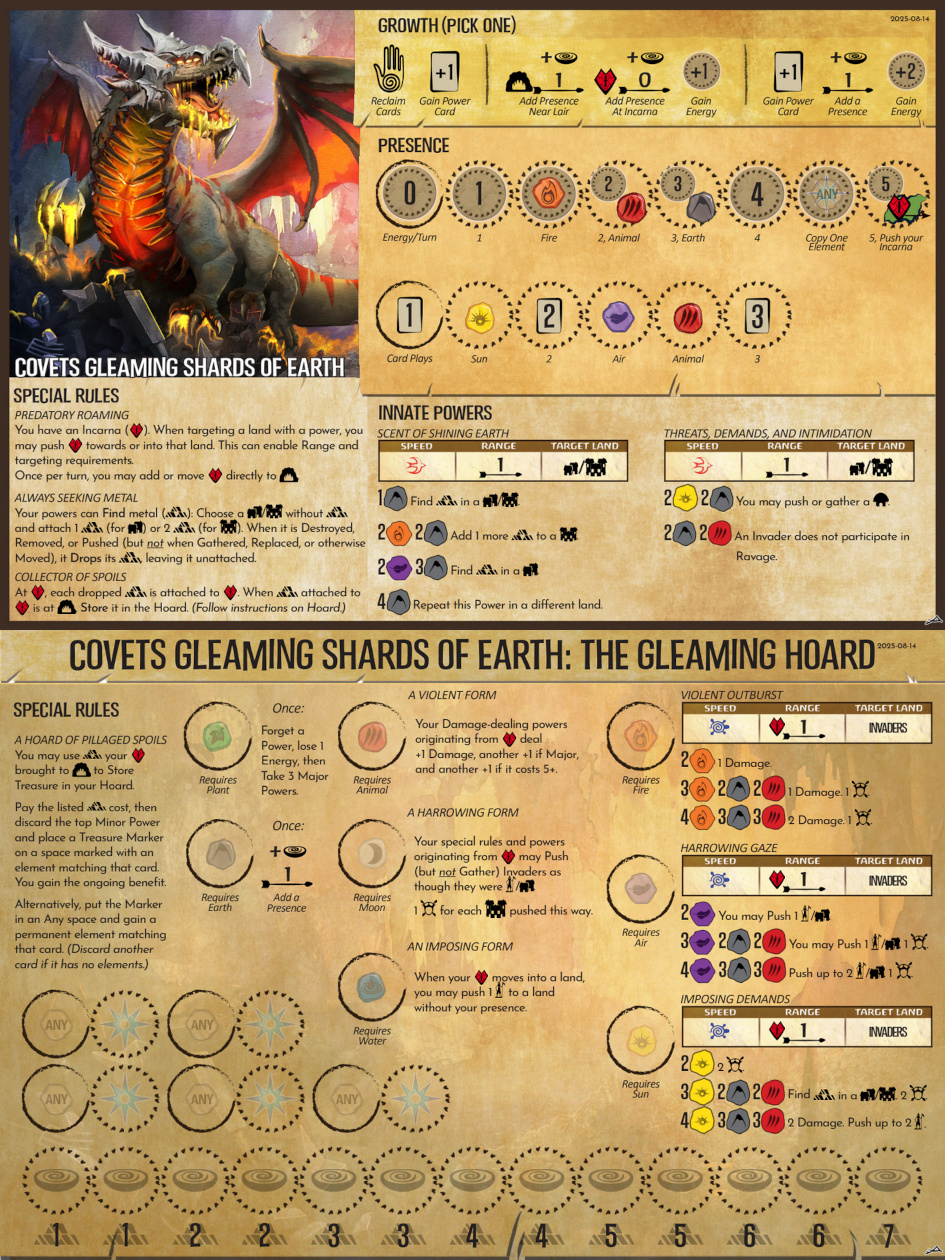
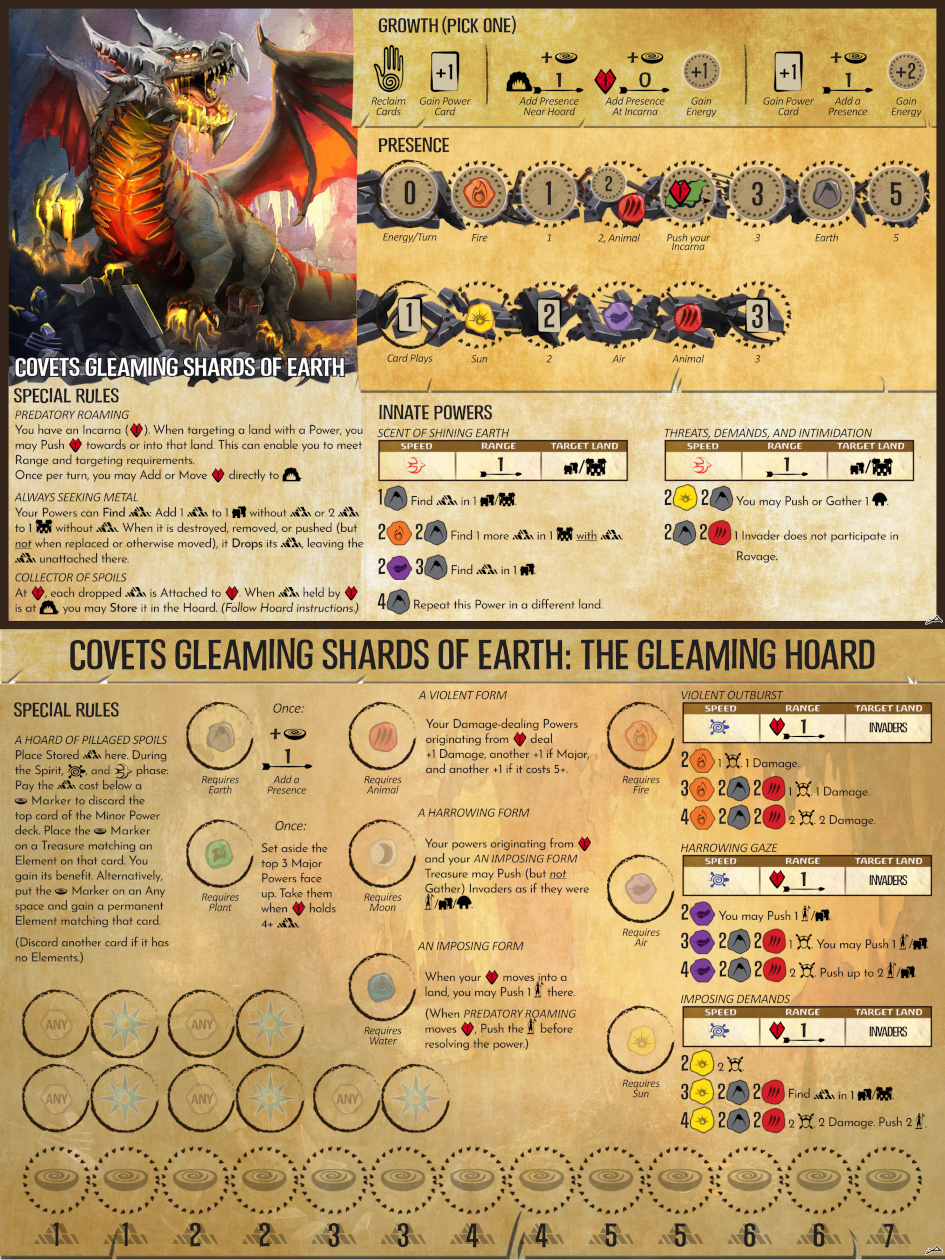
Covets Gleaming Shards of Earth v1.4 (from v1.3)
release notes https://docs.google.com/document/d/1CzGBV91S5-KyA2SXdhSDGi-828hod6VFX8HhCQ9kW8U/edit
drive https://drive.google.com/drive/folders/1K-G1JjMQP77AXm_r2AndX5O7uOgF7gTX

These unique powers cards have mechanical changes, so need a new version:

* Favors of Steel and Bone (+6 health instead of +8 health)
* Melt Earth to Slag (you only earn the fear if a city is destroyed)

Petition for Smoldering Wrath has no mechanical changes at all, only
cosmetic changes, so is updated in-place.

Unnerving Attention has a mechanical change not noted in the patch
notes! It now checks whether an Invader has metal, as opposed to whether
any metal is present. Since it isn't mentioned, presumably this is meant
as a fix for how it always should have been. I've decided to update it
in-place.

diff --git a/pbf/templates/player.html b/pbf/templates/player.html
@@ -88,6 +88,8 @@
       {# We must not allow arbitrary aspect name to be interpolated into the path! Only allow known-good aspects. #}
       {% if player.aspect == 'v1.2.1' %}
       <img src="{% static 'pbf/covets_v1.2.1.jpg' %}" width="957" height="1260" />
+      {% elif player.aspect == 'v1.3' %}
+      <img src="{% static 'pbf/covets_v1.3.jpg' %}" width="957" height="1260" />
       {% else %}
       <img src="{% static player.spirit.url %}" width="957" height="1260" />
       {% endif %}
@@ -185,8 +187,10 @@
   {% if player.spirit.name == 'Covets' %}
   {% if player.aspect == 'v1.2.1' %}
   <button class="btn" hx-get="{% url 'gain_power' player.id 'major' '6' %}">6 Cards</button>
-  {% elif player.aspect >= 'v1.3' %}
+  {% elif player.aspect == 'v1.3' %}
   <button class="btn" hx-get="{% url 'take_powers' player.id 'major' '3' %}"{% if not player.plant_treasure_this_turn %} disabled{% endif %}>Take 3</button>
+  {% elif player.aspect >= 'v1.4' and not player.plant_treasure.exists %}
+  <button class="btn" hx-get="{% url 'create_plant_treasure' player.id %}"{% if not player.plant_treasure_this_turn %} disabled{% endif %}>Set aside 3 (Plant Treasure)</button>
   {% endif %}
   {% endif %}
   <button class="btn" hx-get="{% url 'gain_power' player.id 'major' '2' %}">2 Cards</button>
@@ -363,6 +367,29 @@
     </div>
 
   </ul>
+
+  {% if player.spirit.name == 'Covets' %}
+  {% for card in player.plant_treasure.all %}
+  {% if forloop.first %}
+  <p>
+  <h4>Plant Treasure:</h4>
+  <ul>
+    <div class="container-fluid">
+      <div class="row">
+  {% endif %}
+	<div class="col-auto">
+	  <div class="w-150">
+	    <img src="{% static card.url %}" class="img-fluid rounded-top" alt="{{card.name}}">
+	  </div>
+	</div>
+  {% if forloop.last %}
+  </ul>
+  <button class="btn" hx-get="{% url 'take_plant_treasure' player.id %}">Take</button>
+  Reminder: Incarna must hold 4+ Metal (<em>not</em> Stored in the Hoard)
+  </p>
+  {% endif %}
+  {% endfor %}
+  {% endif %}
 
   {% if player.spirit.name == 'Fractured' %}
   <p>

diff --git a/pbf/tests.py b/pbf/tests.py
@@ -1158,6 +1158,105 @@ class TestImpending(TestCase):
         client.post(f"/game/{player.id}/gain_energy_on_impending")
         self.assert_impending_energy(player, [2])
 
+class TestCovetsGleamingShardsPlantTreasure(TestCase):
+    def setup_players(self, n=1):
+        client = Client()
+        client.post("/new")
+        game = Game.objects.last()
+        for i in range(n):
+            client.post(f"/game/{game.id}/add-player", {"spirit": "Covets", "color": "random"})
+            self.assertEqual(game.gameplayer_set.count(), i + 1, "didn't find correct number of players; spirit not created successfully?")
+        return (client, game, *game.gameplayer_set.all())
+
+    def test_create(self):
+        client, game, player = self.setup_players()
+        minors_before = game.minor_deck.count()
+        majors_before = game.major_deck.count()
+        hand_before = player.hand.count()
+        player.spirit_specific_per_turn_flags |= GamePlayer.PLANT_TREASURE_THIS_TURN
+        player.save()
+
+        client.post(f"/game/{player.id}/create_plant_treasure")
+
+        self.assertEqual(player.plant_treasure.count(), 3)
+        self.assertEqual(game.minor_deck.count(), minors_before)
+        self.assertEqual(game.major_deck.count(), majors_before - 3)
+        self.assertEqual(player.hand.count(), hand_before)
+
+        for card in player.plant_treasure.all():
+            self.assertEqual(card.type, Card.MAJOR)
+
+    def test_create_reshuffle(self):
+        client, game, player = self.setup_players()
+        majors_before = game.major_deck.count()
+        game.discard_pile.add(*game.major_deck.all())
+        game.major_deck.clear()
+        player.spirit_specific_per_turn_flags |= GamePlayer.PLANT_TREASURE_THIS_TURN
+        player.save()
+
+        client.post(f"/game/{player.id}/create_plant_treasure")
+
+        self.assertEqual(player.plant_treasure.count(), 3)
+        self.assertEqual(game.major_deck.count(), majors_before - 3)
+        self.assertEqual(game.discard_pile.count(), 0)
+
+    def test_create_idempotent(self):
+        client, game, player = self.setup_players()
+        player.spirit_specific_per_turn_flags |= GamePlayer.PLANT_TREASURE_THIS_TURN
+        player.save()
+        client.post(f"/game/{player.id}/create_plant_treasure")
+        majors_before = game.major_deck.count()
+        plant_treasure_before = list(player.plant_treasure.all())
+        player.spirit_specific_per_turn_flags |= GamePlayer.PLANT_TREASURE_THIS_TURN
+        player.save()
+
+        client.post(f"/game/{player.id}/create_plant_treasure")
+
+        self.assertEqual(list(player.plant_treasure.all()), plant_treasure_before)
+        self.assertEqual(game.major_deck.count(), majors_before)
+
+    def test_create_when_not_enabled(self):
+        client, game, player = self.setup_players()
+        majors_before = game.major_deck.count()
+
+        client.post(f"/game/{player.id}/create_plant_treasure")
+
+        self.assertEqual(player.plant_treasure.count(), 0)
+        self.assertEqual(game.major_deck.count(), majors_before)
+
+    def test_take(self):
+        client, game, player = self.setup_players()
+        minors_before = game.minor_deck.count()
+        player.spirit_specific_per_turn_flags |= GamePlayer.PLANT_TREASURE_THIS_TURN
+        player.save()
+        client.post(f"/game/{player.id}/create_plant_treasure")
+        majors_before = game.major_deck.count()
+        hand_before = player.hand.count()
+        plant_treasure_before = list(player.plant_treasure.all())
+
+        client.post(f"/game/{player.id}/take_plant_treasure")
+
+        self.assertEqual(player.plant_treasure.count(), 0)
+        self.assertEqual(game.minor_deck.count(), minors_before)
+        self.assertEqual(game.major_deck.count(), majors_before)
+        self.assertEqual(player.hand.count(), hand_before + 3)
+
+        for card in plant_treasure_before:
+            self.assertIn(card, player.hand.all())
+
+    def test_take_idempotent(self):
+        client, game, player = self.setup_players()
+        player.spirit_specific_per_turn_flags |= GamePlayer.PLANT_TREASURE_THIS_TURN
+        player.save()
+        client.post(f"/game/{player.id}/create_plant_treasure")
+        client.post(f"/game/{player.id}/take_plant_treasure")
+        hand_before = player.hand.count()
+
+        client.post(f"/game/{player.id}/take_plant_treasure")
+
+        self.assertEqual(player.plant_treasure.count(), 0)
+        self.assertEqual(player.hand.count(), hand_before)
+
 class TestUpload(TestCase):
     def png_chunk(type, data):
         import binascii

diff --git a/pbf/views.py b/pbf/views.py
@@ -155,7 +155,7 @@ def game_setup(request, game_id):
             ('Waters', 'Wounded Waters Bleeding', ()),
         ],
         'Apocrypha': [
-            ('Covets', 'Covets Gleaming Shards of Earth [Apocrypha]', ('NO BASE', 'v1.3')),
+            ('Covets', 'Covets Gleaming Shards of Earth [Apocrypha]', ('NO BASE', 'v1.4')),
             ('Rot', 'Spreading Rot Renews the Earth [Apocrypha]', ('Round Down',)),
         ],
         'Exploratory Testing': [
@@ -353,12 +353,12 @@ spirit_presence = {
                 (441,254,1.0), (512,254,1.0,'','Rot'), (582,254,1.0), (654,254,1.0,'','Moon'), (724,254,1.0), (796,254,1.0),
                 ),
         'Covets': (
-                (441,158,1.0,'1'), (512,158,1.0,'','Fire'), (582,158,1.0,'2','Animal'), (654,158,1.0,'3','Earth'), (725,158,1.0,'4'), (796,158,1.0), (867,158,1.0,'5'),
+                (441,158,1.0,'','Fire'), (512,158,1.0,'1'), (582,158,1.0,'2','Animal'), (654,158,1.0), (725,158,1.0,'3'), (796,158,1.0,'','Earth'), (867,158,1.0,'5'),
                 (441,279,1.0,'','Sun'), (512,279,1.0,''), (582,279,1.0,'','Air'), (654,279,1.0,'','Animal'), (724,279,1.0),
                 # hoard one-time bonuses
                 (176,700,0.0), (176,815,0.0),
                 # hoard forms (passive bonuses)
-                (332,700,0.0), (332,815,0.0), (332,950,0.0),
+                (342,700,0.0), (342,815,0.0), (342,950,0.0),
                 # hoard innates
                 (605,700,0.0), (605,855,0.0), (605,1005,0.0),
                 # hoard any element spaces
@@ -946,6 +946,42 @@ def create_days(request, player_id, num):
 
     return with_log_trigger(render(request, 'player.html', {'player': player}))
 
+# Covets Gleaming Shards of Earth
+def create_plant_treasure(request, player_id):
+    player = get_object_or_404(GamePlayer, pk=player_id)
+
+    if player.plant_treasure.exists():
+        # show the ones they already set aside
+        return render(request, 'player.html', {'player': player, 'taken_cards': player.plant_treasure.all(), 'taken_cards_verb': 'set aside'})
+
+    if not player.plant_treasure_this_turn():
+        return render(request, 'player.html', {'player': player})
+
+    game = player.game
+    majors = cards_from_deck(game, 3, 'major')
+    add_log_msg(game, player=player, text=f'stores the Plant Treasure and sets aside 3 major powers', cards=majors)
+    player.plant_treasure.add(*majors)
+    player.spirit_specific_per_turn_flags &= ~GamePlayer.PLANT_TREASURE_THIS_TURN
+    player.save(update_fields=['spirit_specific_per_turn_flags'])
+
+    return with_log_trigger(render(request, 'player.html', {'player': player, 'taken_cards': majors, 'taken_cards_verb': 'set aside'}))
+
+# Covets Gleaming Shards of Earth
+def take_plant_treasure(request, player_id):
+    player = get_object_or_404(GamePlayer, pk=player_id)
+
+    # The site does not maintain a counter of metal held by incarna,
+    # so we cannot check that.
+    # The spirit-specific resource field is used for metal stored in the hoard,
+    # while metal held by incarna is considered part of the island state,
+    # so the host is responsible for maintaining the latter and showing it to the players.
+    if player.plant_treasure.exists():
+        player.hand.add(*player.plant_treasure.all())
+        player.plant_treasure.clear()
+        add_log_msg(player.game, player=player, text=f'takes their Plant Treasure powers')
+
+    return with_log_trigger(render(request, 'player.html', {'player': player}))
+
 def gain_energy_on_impending(request, player_id):
     player = get_object_or_404(GamePlayer, pk=player_id)
     to_gain = player.impending_energy()
@@ -1270,7 +1306,8 @@ def toggle_presence(request, player_id, left, top):
         # But we do have to handle the case where they had more Time than discs (10).
         player.spirit_specific_resource = player.presence_set.filter(opacity=1.0, left__lte=Presence.FRACTURED_DAYS_TIME_X).count()
         player.save(update_fields=['spirit_specific_resource'])
-    if player.spirit.name == 'Covets' and left == 176 and top == 700:
+    if player.spirit.name == 'Covets' and left == 176 and top == (700 if player.aspect == 'v1.3' else 815):
+        # the plant treasure was above the earth treasure in v1.3 but below it in v1.4, hence the different `top` value being checked
         if presence.opacity:
             player.spirit_specific_per_turn_flags |= GamePlayer.PLANT_TREASURE_THIS_TURN
         else:

diff --git a/pbf/models.py b/pbf/models.py
@@ -466,6 +466,7 @@ class GamePlayer(models.Model):
             'Round DownRot': 'Rot',
             'v1.2.1Covets': 'Metal Stored in Hoard',
             'v1.3Covets': 'Metal Stored in Hoard',
+            'v1.4Covets': 'Metal Stored in Hoard',
             'UnconstrainedFangs': 'Prepared Beasts',
             'Memory': 'Prepared Elements',
             'IntensifyMemory': 'Prepared Elements',
@@ -668,6 +669,13 @@ class GamePlayer(models.Model):
 
     def energy_from_rot(self):
         return (self.rot_loss() + (0 if self.aspect == 'Round Down' else 1)) // 2
+
+    @functools.cached_property
+    def plant_treasure(self):
+        # Reusing the existing Days That Never Were association,
+        # as the two are similar (cards that you might have in the future, but not now)
+        # TODO: If it's a problem in the future, we can consider using a dedicated association.
+        return self.days
 
     def days_ordered(self):
         return self.days.order_by('type', 'cost')
@@ -1380,6 +1388,28 @@ spirit_thresholds = {
             (667, 1052, '2S'),
             (667, 1081, '3S2E2N'),
             (667, 1110, '4S3E3N'),
+            ],
+        'v1.4Covets': [
+            # Scent of Shining Earth
+            (360, 487, '1E'),
+            (360, 522, '2F2E'),
+            (360, 555, '2A3E'),
+            (360, 590, '4E'),
+            # Threats, Demands, and Intimidation
+            (650, 487, '2S2E'),
+            (650, 522, '2E2N'),
+            # Violent Outburst
+            (667, 750, '2F'),
+            (667, 779, '3F2E2N'),
+            (667, 807, '4F2E2N'),
+            # Harrowing Gaze
+            (667, 902, '2A'),
+            (667, 931, '3A2E2N'),
+            (667, 960, '4A2E2N'),
+            # Imposing Demands
+            (667, 1052, '2S'),
+            (667, 1081, '3S2E2N'),
+            (667, 1110, '4S2E2N'),
             ],
         }
 

diff --git a/pbf/migrations/0061_covets_gleaming_shards_of_earth_v14.py b/pbf/migrations/0061_covets_gleaming_shards_of_earth_v14.py
@@ -1,0 +1,43 @@
+from django.db import migrations, models
+
+def covets_uniques_v13_rename(apps, schema_editor):
+    Card = apps.get_model('pbf', 'Card')
+
+    for name in ('Melt Earth to Slag', 'Favors of Steel and Bone'):
+        Card.objects.filter(name=name).update(name=f"{name} v1.3", spirit=None)
+
+def covets_uniques_v13_unrename(apps, schema_editor):
+    Card = apps.get_model('pbf', 'Card')
+    Spirit = apps.get_model('pbf', 'Spirit')
+    covets = Spirit.objects.get(name='Covets')
+
+    for name in ('Melt Earth to Slag', 'Favors of Steel and Bone'):
+        Card.objects.filter(name=f"{name} v1.3").update(name=name, spirit=covets)
+
+def covets_add_v14_uniques(apps, schema_editor):
+    Card = apps.get_model('pbf', 'Card')
+    Spirit = apps.get_model('pbf', 'Spirit')
+    covets = Spirit.objects.get(name='Covets')
+
+    unique = 2
+    fast = 1
+    slow = 2
+
+    Card(name="Favors of Steel and Bone", cost=1, type=unique, speed=fast, spirit=covets, elements="Sun,Earth,Animal").save()
+    Card(name="Melt Earth to Slag",       cost=1, type=unique, speed=slow, spirit=covets, elements="Sun,Moon,Fire,Earth").save()
+
+def covets_rm_v14_uniques(apps, schema_editor):
+    Card = apps.get_model('pbf', 'Card')
+
+    for name in ('Melt Earth to Slag', 'Favors of Steel and Bone'):
+        Card.objects.get(name=name).delete()
+
+class Migration(migrations.Migration):
+    dependencies = [
+        ('pbf', '0060_remove_gameplayer_base_energy_per_turn'),
+    ]
+
+    operations = [
+        migrations.RunPython(covets_uniques_v13_rename, covets_uniques_v13_unrename),
+        migrations.RunPython(covets_add_v14_uniques, covets_rm_v14_uniques),
+    ]

diff --git a/island/urls.py b/island/urls.py
@@ -34,6 +34,8 @@ urlpatterns = [
     path('game/<int:player_id>/send_days/<int:card_id>', views.send_days, name='send_days'),
     path('game/<int:player_id>/choose_days/<int:card_id>', views.choose_days, name='choose_days'),
     path('game/<int:player_id>/create_days/<int:num>', views.create_days, name='create_days'),
+    path('game/<int:player_id>/create_plant_treasure', views.create_plant_treasure, name='create_plant_treasure'),
+    path('game/<int:player_id>/take_plant_treasure', views.take_plant_treasure, name='take_plant_treasure'),
     path('game/<int:player_id>/discard-pile', views.discard_pile, name='discard_pile'),
     path('game/<int:player_id>/choose_from_discard/<int:card_id>', views.choose_from_discard, name='choose_from_discard'),
     path('game/<int:player_id>/return_to_deck/<int:card_id>', views.return_to_deck, name='return_to_deck'),

diff --git a/pbf/admin.py b/pbf/admin.py
@@ -36,7 +36,9 @@ class GamePlayerAdmin(admin.ModelAdmin):
         excludes = []
         if not obj or obj.spirit.name != 'Waters':
             excludes.append('healing')
-        if not obj or obj.spirit.name != 'Fractured':
+        if not obj or (obj.spirit.name != 'Fractured' and obj.spirit.name != 'Covets'):
+            # TODO: Cutting corners, using Days That Never Were for Covets Gleaming Shards,
+            # rather than a dedicated association.
             excludes.append('days')
         return excludes
 
